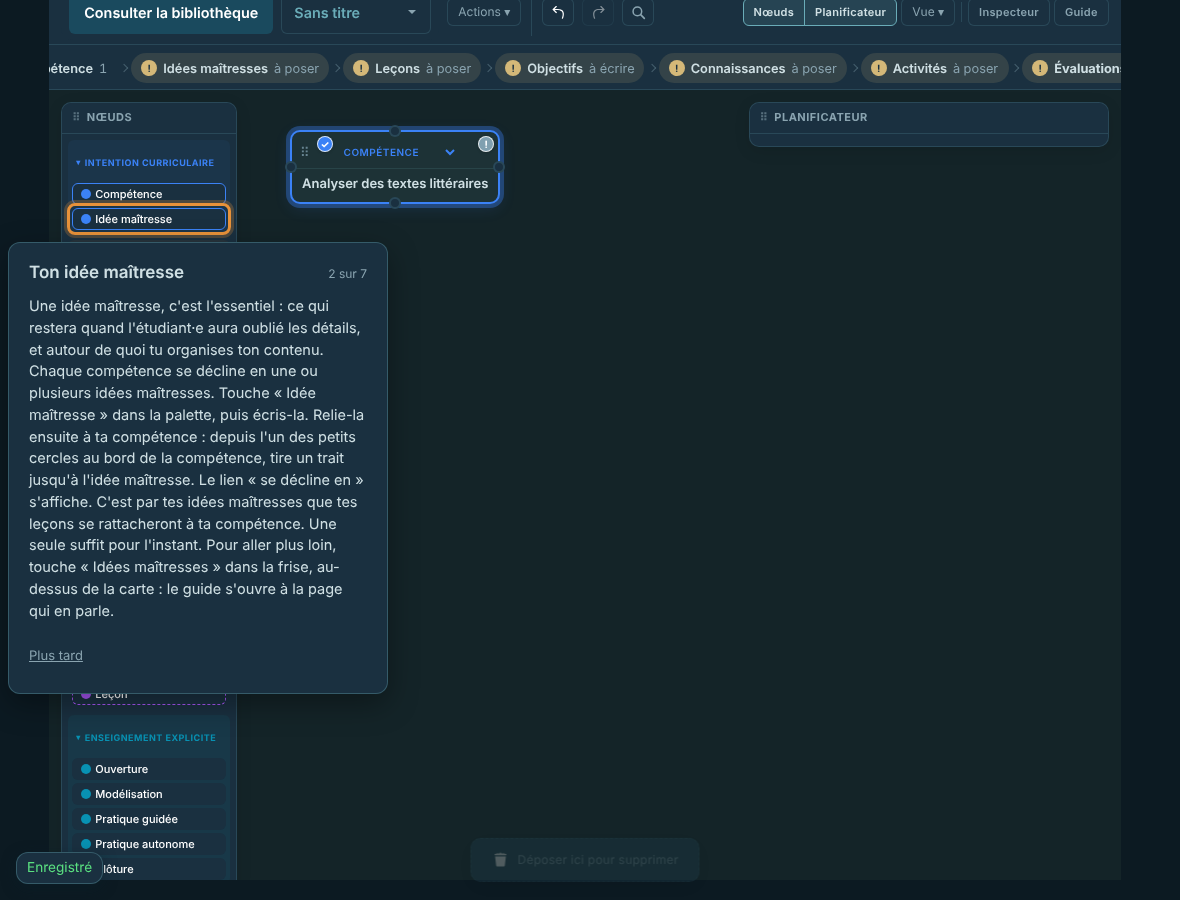
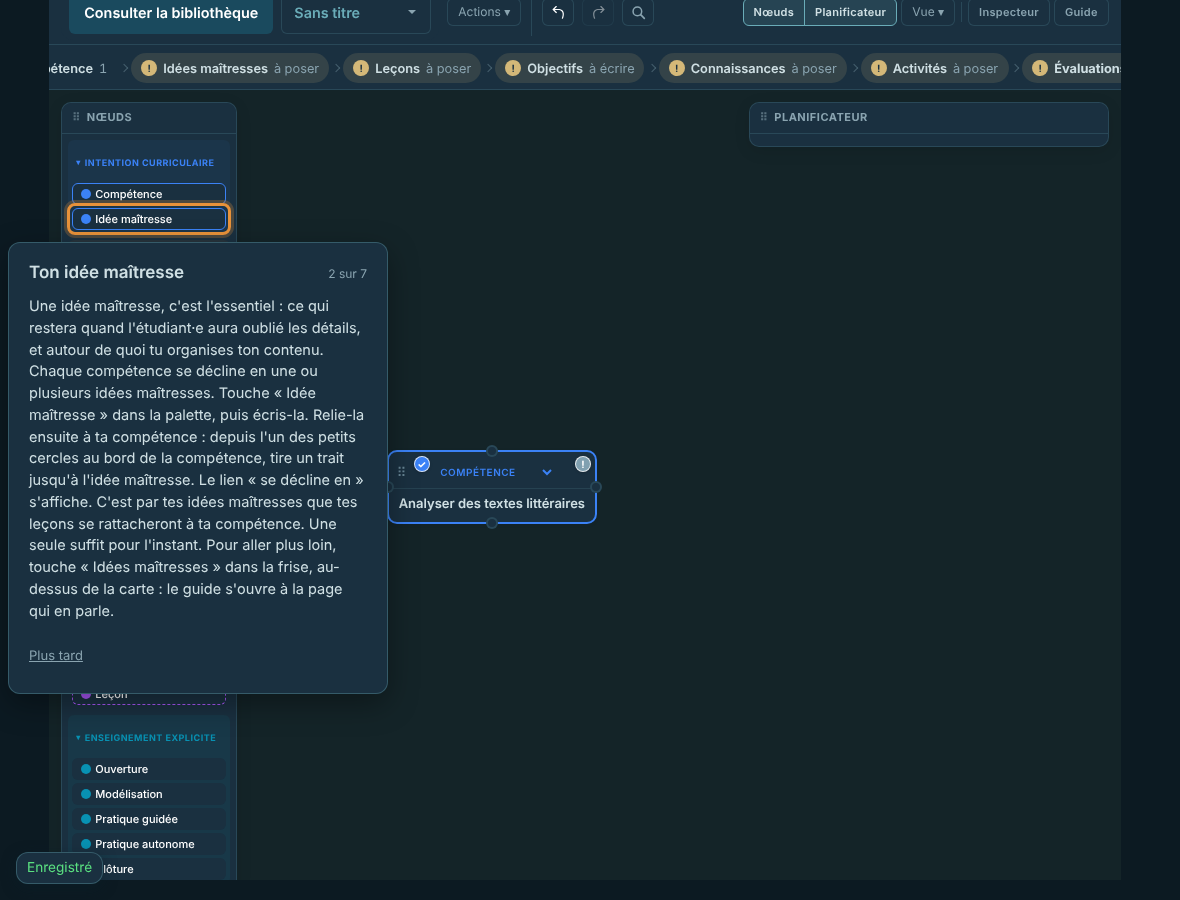
feat(parcours) : cinquième parcours, décisions du 9 nov. (16 h 03) — un bloc neuf de la palette se pose à côté du dernier posé, sans recouvrement, dans la partie visible du canevas (corrigé à la source) ; « Commencer » et « Refaire » ne comptent que les blocs créés ensuite ; essais, captures, rappor
Claude-Session: https://claude.ai/code/session_01ByBG6Ld1FqQz68ho7CDESp

Changed region(s): [[0.2441, 0.1244, 0.4271, 0.2489], [0.3356, 0.4978, 0.5186, 0.5911], [0.3966, 0.9333, 0.4271, 0.9644]]

diff --git a/index.html b/index.html
@@ -11500,7 +11500,7 @@
     <script src="js/securite-echappement.js?v=20260821a"></script> <!-- CT-29 : echapperAttribut — echapperHtml n'encode pas les guillemets, insuffisant en contexte d'attribut -->
     <script src="js/identite-naturelle.js?v=20260824a"></script> <!-- CT-15 : source unique de l'identite NATURELLE d'une entite du cadre (code de cours #455, courriel, triplet du groupe-cours) -->
     <script src="js/navigation.js?v=20261029b"></script> <!-- #1152, lot 5 (29 oct.) : les bulles d’Exploration des pratiques et du Suivi longitudinal (autorisation de Grégoire) · « Apporter mon matériel » lot 1 (16 oct.) : info-bulle du sous-onglet (autorisation de Grégoire) · #345 (22 juin) : filtre comparateur sous-nav Labo ; Refonte nav SP5 : tables migrées calendrier-* + nav-calendrier-* -->
-    <script src="js/preferences.js?v=20261109u"></script> <!-- Parcours 5 (9 nov.) : parcoursMonter · Parcours 4 (9 nov.) : fichierId dans parcoursRecevoir · #1229 (4 nov.) : axeCopieReference, l’axe de la copie de référence · Les palettes, une même famille (2 nov.) : la version de chaque palette, défaut l’étendue · La palette Évaluation compacte (1er nov.) · La palette Codes compacte, partie B (1er nov.) · #1149 (24 oct.) : défaut afficherChainesEtapes · Lot 2 de la carte (8 oct.) : défaut planifReserveDisposition retiré · API centralisée préférences + migration V3 (doit précéder modes.js) ; #485 : défaut rapportPresencesOptions -->
+    <script src="js/preferences.js?v=20261109v"></script> <!-- Parcours 5 (16 h 03) : noeudsAvant · Parcours 5 (9 nov.) : parcoursMonter · Parcours 4 (9 nov.) : fichierId dans parcoursRecevoir · #1229 (4 nov.) : axeCopieReference, l’axe de la copie de référence · Les palettes, une même famille (2 nov.) : la version de chaque palette, défaut l’étendue · La palette Évaluation compacte (1er nov.) · La palette Codes compacte, partie B (1er nov.) · #1149 (24 oct.) : défaut afficherChainesEtapes · Lot 2 de la carte (8 oct.) : défaut planifReserveDisposition retiré · API centralisée préférences + migration V3 (doit précéder modes.js) ; #485 : défaut rapportPresencesOptions -->
 
     <script src="js/modes.js?v=20261108b"></script> <!-- Retouche E4 (28 oct.) : jetonCacheLecture, l’index des évaluations vit le temps d’un lot · #1038 (26 oct.) : productionsRangeesAilleurs, la condition de la ligne sous « Production » · #1075, point 2 (22 oct.) : un trimestre clos ne s’écrit pas · Lot E1 de l'enregistrement : modifierEtAnnoncer, le témoin pour les écritures par db.modifier · Refonte nav SP5 : commentaire et clé calendrier-trimestre ; #851 vue « tous groupes » -->
     <script src="js/utils-notifications.js?v=20261104b"></script> <!-- Cat-B Track 4 chantier E (21 mai 2026) : source unique notifications toast — window.notifications.{succes,erreur,info} -->
@@ -11672,7 +11672,7 @@
     <script src="js/planification-donnees.js?v=20261006a"></script> <!-- #425 préalable : vivacité de productionId à la reprise (8 août) -->
 
     <script src="js/planification-bibliotheque.js?v=20261025b"></script> <!-- #1157, retouche (25 oct.) : « de ce trimestre » dans la question et la notification · #1157 (25 oct.) : la bibliothèque des cartes d’alignement en deux colonnes · Beta 99.40 b0510-1500 : Phase C #267 migration boutonPrincipal/actionsMenu -->
-    <script src="js/planification-carte.js?v=20261109a"></script> <!-- Parcours 5 (9 nov.) : la pastille « ! » paraît en quittant le premier objectif (Q13), deux phrases du guide · #1172 (26 oct.) : la chaîne d'étapes de la carte, le guide ouvert à une page · Lot 4 (9 oct.) : export, échelle de la production (#969) ; index par passe (#971), role="img" (#972), champ Semaine des leçons à objectifs · Commentaire sur le guide (8 oct.) · 1.192.1 (8 oct.) : palette des raccourcis revenue, ouverte par le menu « Vue » · Mots validés (8 oct., 19 h 05) et lien de l'invitation qui quitte le plein écran · Lot 2 de la carte (8 oct.) : planificateur vertical seul, dates du trimestre · Lot 1 de la carte (8 oct.) : menu « Vue », R remplace ⌘1 · Décloner (3 sept.) : bouton dans l'Inspecteur, message d'après-geste unique (annoncerDeclonage) · Portage #424 : générateur unique, rétroaction formative, panneau Exporter le plan (8 août) -->
+    <script src="js/planification-carte.js?v=20261109e"></script> <!-- Parcours 5 (9 nov., 16 h 03) : un bloc neuf de la palette à côté du dernier posé · Parcours 5 (9 nov.) : la pastille « ! » paraît en quittant le premier objectif (Q13), deux phrases du guide · #1172 (26 oct.) : la chaîne d'étapes de la carte, le guide ouvert à une page · Lot 4 (9 oct.) : export, échelle de la production (#969) ; index par passe (#971), role="img" (#972), champ Semaine des leçons à objectifs · Commentaire sur le guide (8 oct.) · 1.192.1 (8 oct.) : palette des raccourcis revenue, ouverte par le menu « Vue » · Mots validés (8 oct., 19 h 05) et lien de l'invitation qui quitte le plein écran · Lot 2 de la carte (8 oct.) : planificateur vertical seul, dates du trimestre · Lot 1 de la carte (8 oct.) : menu « Vue », R remplace ⌘1 · Décloner (3 sept.) : bouton dans l'Inspecteur, message d'après-geste unique (annoncerDeclonage) · Portage #424 : générateur unique, rétroaction formative, panneau Exporter le plan (8 août) -->
     <script src="js/planification-export.js?v=20261022b"></script> <!-- Lot 4 (9 oct.) : « Aucun objectif de cette leçon » (#974) · LE générateur d'export : 3 niveaux × 3 formats (portage #424, 8 août) — #416 lot C : la date dérivée du groupe-cours choisi -->
     <script src="js/planification.js?v=20260808a"></script> <!-- Refonte nav SP4 : hooks nomSection 'conception' + idSousSection conception-* -->
 
@@ -11793,7 +11793,7 @@
     <script src="js/parcours-classe.js?v=20261109p"></script>
     <script src="js/parcours-evaluer.js?v=20261109e"></script> <!-- Parcours 3 (9 nov.) : « Évaluer une première production » ; la cartouche nommée par la production (15 h 55) ; la ligne du panneau, l’échelle à la fiche (13 h 37) -->
     <script src="js/parcours-recevoir.js?v=20261109e"></script> <!-- Parcours 4 (9 nov.) : « Recevoir les productions, rendre tes rétroactions » ; deux textes et la bulle sous les colonnes (15 h 55) ; la reprise des étapes 4 à 7, l’export téléchargé (relecture neuve) -->
-    <script src="js/parcours-cours.js?v=20261109c"></script> <!-- Parcours 5 (9 nov.) : « Monter ton cours » -->
+    <script src="js/parcours-cours.js?v=20261109d"></script> <!-- Parcours 5 (9 nov.) : « Monter ton cours » -->
     <script src="js/guides-pedagogiques.js?v=20261101a"></script> <!-- Consigne du 31 oct., partie F : même en-tête aux trois palettes, ↔ et ↕ en texte sur l’iPad · Lot 2 des seuils (30 oct.) : le niveau RàI · #1152, lot 5 (29 oct.) : le guide ACP cite « Suivi du groupe » ; « étudiant·e » · Le guide SOLO (27 oct.) : « PS ↔ Préstructurel », le non recevable sorti de la correspondance · Module unifié des guides pédagogiques : SOLO, ACP, RàI (plan du 23 mai, contenu validé 4 juin 2026) -->
     <script src="js/comparateur-pratiques.js?v=20261107b"></script> <!-- #1152, retouche du lot 5 (29 oct.) : « L’Exploration des pratiques » dans trois phrases · #1152, lot 5 (29 oct.) : le titre « Exploration des pratiques » · #1075, point 1 (22 oct.) : le DA affiché en anonymisation, libellé et CSV · Comparateur de pratiques (lot C1-a : squelette + garde démo, 6 juin 2026) -->
     <script src="js/export-resultats-finaux.js?v=20261029a"></script> <!-- #333 Lot 2 : export CSV des résultats finaux (module dédié, consomme simulerIndices) -->

diff --git a/js/planification-carte.js b/js/planification-carte.js
@@ -3121,6 +3121,7 @@ function pointClientDuGeste(e) {
 function creerNoeud(type, x, y) {
     enregistrerPourUndo();
     const id = 'planif-noeud_' + (++etat.compteur);
+    etat.dernierPose = id;   // le prochain bloc de la palette se pose à côté (`placePourBlocNeuf`)
     const config = TYPES[type];
 
     const donnees = {
@@ -3162,6 +3163,84 @@ function creerNoeud(type, x, y) {
 
     sauvegarder();
     return id;
+}
+
+// === UN BLOC NEUF, À CÔTÉ DU DERNIER POSÉ (9 nov. 2026) ===
+//
+// Au toucher d'un bouton de la palette, le bloc se posait au centre du canevas, à ±50 px près, au hasard : la
+// compétence, l'idée maîtresse et la leçon du cinquième parcours d'assistance se recouvraient, et il fallait les
+// écarter avant de tirer un trait (mesuré ; décision de Cowork, 9 nov., 16 h 03 : corriger la source). Il se pose
+// maintenant à côté du dernier bloc posé (à droite, sinon dessous, à gauche, au-dessus), sans recouvrir aucun bloc, dans
+// la partie visible du canevas (entre les palettes « Nœuds » et « Planificateur ») ; sinon, au plus près du centre de
+// cette partie. Le glisser depuis la palette, lui, pose le bloc où on le lâche : il n'est pas touché.
+var ECART_BLOC_NEUF = 40;
+
+/** La taille d'un bloc neuf, avant de le dessiner : un conteneur (leçon, séquence) est plus grand qu'une feuille. */
+function tailleBlocNeuf(type) {
+    return TYPES[type] && TYPES[type].conteneur ? { l: 300, h: 150 } : { l: 230, h: 90 };
+}
+
+/** Le rectangle d'un bloc posé, en coordonnées de la carte. */
+function rectDeBloc(n) {
+    var el = document.getElementById(n.id);
+    return { x: n.x, y: n.y, l: el ? el.offsetWidth : 200, h: el ? el.offsetHeight : 74 };
+}
+
+/** Deux rectangles plus proches que l'écart voulu. */
+function tropProches(a, b) {
+    var m = ECART_BLOC_NEUF / 2;
+    return a.x < b.x + b.l + m && b.x < a.x + a.l + m && a.y < b.y + b.h + m && b.y < a.y + a.h + m;
+}
+
+/** La partie du canevas qu'on voit et qu'on peut toucher, en coordonnées de la carte. */
+function partieVisibleDuCanevas() {
+    var r = zoneTravail.getBoundingClientRect();
+    var g = Math.max(r.left, 0), d = Math.min(r.right, window.innerWidth), h = Math.max(r.top, 0), b = Math.min(r.bottom, window.innerHeight);
+    ['planif-palette', 'planif-palette-nav'].forEach(function(id) {
+        var p = document.getElementById(id);
+        if (!p || !p.offsetParent) return;
+        var q = p.getBoundingClientRect();
+        if (q.right <= (g + d) / 2) g = Math.max(g, q.right);
+        else if (q.left >= (g + d) / 2) d = Math.min(d, q.left);
+    });
+    var a = clientVersData(g, h), z = clientVersData(d, b);
+    return { x: a.x, y: a.y, l: z.x - a.x, h: z.y - a.y };
+}
+
+/** Une place convient si le bloc tient dans la partie visible sans s'approcher d'aucun autre. */
+function placeConvient(c, t, vue, autres) {
+    var r = { x: c.x, y: c.y, l: t.l, h: t.h };
+    var dedans = r.x >= vue.x && r.y >= vue.y && r.x + r.l <= vue.x + vue.l && r.y + r.h <= vue.y + vue.h;
+    return dedans && !autres.some(function(o) { return tropProches(r, o); });
+}
+
+/** Les places à côté du dernier bloc posé, dans l'ordre : à droite, dessous, à gauche, au-dessus. */
+function placesAutourDe(d, t) {
+    var e = ECART_BLOC_NEUF;
+    return [{ x: d.x + d.l + e, y: d.y }, { x: d.x, y: d.y + d.h + e }, { x: d.x - e - t.l, y: d.y }, { x: d.x, y: d.y - e - t.h }];
+}
+
+/** Sinon, la place libre la plus proche du point visé, cherchée dans la partie visible, de 30 en 30 px. */
+function placeLaPlusProche(vise, t, vue, autres) {
+    var meilleure = null, distance = Infinity;
+    for (var y = vue.y; y + t.h <= vue.y + vue.h; y += 30) {
+        for (var x = vue.x; x + t.l <= vue.x + vue.l; x += 30) {
+            var dist = Math.abs(x - vise.x) + Math.abs(y - vise.y);
+            if (dist < distance && placeConvient({ x: x, y: y }, t, vue, autres)) { meilleure = { x: x, y: y }; distance = dist; }
+        }
+    }
+    return meilleure;
+}
+
+/** Où poser le bloc neuf d'un toucher sur la palette. */
+function placePourBlocNeuf(type) {
+    var t = tailleBlocNeuf(type), vue = partieVisibleDuCanevas();
+    var autres = Array.from(etat.noeuds.values()).map(rectDeBloc);
+    var dernier = etat.dernierPose && etat.noeuds.get(etat.dernierPose);
+    var d = dernier ? rectDeBloc(dernier) : null;
+    var proche = d ? placesAutourDe(d, t).find(function(c) { return placeConvient(c, t, vue, autres); }) : null;
+    var centre = { x: vue.x + (vue.l - t.l) / 2, y: vue.y + (vue.h - t.h) / 2 };
+    return proche || placeLaPlusProche(d || centre, t, vue, autres) || centre;
 }
 
 // === SÉLECTION ===
@@ -8916,11 +8995,8 @@ function initialiser() {
 
         btn.addEventListener('click', function(e) {
             if (e.detail === 1) {
-                var rect = zoneTravail.getBoundingClientRect();
-                var centre = clientVersData(rect.left + rect.width / 2, rect.top + rect.height / 2);
-                var x = centre.x - 70 + (Math.random() - 0.5) * 100;
-                var y = centre.y - 30 + (Math.random() - 0.5) * 100;
-                creerNoeud(btn.dataset.type, x, y);
+                var place = placePourBlocNeuf(btn.dataset.type);   // à côté du dernier bloc posé (9 nov. 2026)
+                creerNoeud(btn.dataset.type, place.x, place.y);
             }
         });
     });

diff --git a/tests/unit/sentinelle-parcours-cours-2026-11-09.test.js b/tests/unit/sentinelle-parcours-cours-2026-11-09.test.js
@@ -158,7 +158,7 @@ describe('Le guide de la carte, aligné sur les bulles (consigne, 10 h 29 et 10 
 // Break-tests (9 nov.) : `leconDatee` remplacé par `texte` dans `leconReliee` → ROUGE (3) ; `productionId` retiré
 // d'`evaluationAlignee` → ROUGE (6) ; la garde `enSaisie` retirée → ROUGE (saisie). Rétablis.
 describe('« Monter ton cours » : ce qui fait avancer chaque étape', () => {
-    function carte({ noeuds = [], liens = [], pastille = 'avant', saisie = false, prods = [{ id: 'PROD_un' }] } = {}) {
+    function carte({ noeuds = [], liens = [], pastille = 'avant', saisie = false, prods = [{ id: 'PROD_un' }], avant } = {}) {
         const N = new Map(noeuds.map((n) => [n.id, { enfants: [], metadata: {}, ...n }]));
         const L = new Map(liens.map((l, k) => [String(k), l]));
         const actif = saisie ? { isContentEditable: true, tagName: 'DIV', closest: (s) => (s === '#conception-carte' ? {} : null) } : null;
@@ -176,7 +176,8 @@ describe('« Monter ton cours » : ce qui fait avancer chaque étape', () => {
             }
         };
         const document = { getElementById: () => null, querySelector: () => null, querySelectorAll: () => [], body: { appendChild() {} }, activeElement: actif };
-        chargerScript('js/parcours-cours.js', { document, obtenirDonneesSelonMode: () => prods }, win);
+        const ctx = avant ? { noeudsAvant: avant } : {};
+        chargerScript('js/parcours-cours.js', { document, obtenirDonneesSelonMode: () => prods, obtenirPreference: () => ctx }, win);
         return win.ParcoursCours;
     }
     const COMP = { id: 'C', type: 'competence', titre: 'Analyser' };
@@ -212,6 +213,17 @@ describe('« Monter ton cours » : ce qui fait avancer chaque étape', () => {
         expect(atteint(carte({ noeuds: [COMP] }), 1)).toBe(true);
         expect(atteint(carte({ noeuds: [COMP], saisie: true }), 1)).toBe(false);
         expect(atteint(carte({ noeuds: [COMP, IDEE], liens: [DECLINE], saisie: true }), 2)).toBe(false);
+    });
+
+    it('seul ce qui est créé après « Commencer » ou « Refaire » fait avancer une étape (16 h 03)', () => {
+        // Une compétence et son idée déjà posées : ni l'étape 1 ni l'étape 2 n'avancent.
+        expect(atteint(carte({ noeuds: [COMP], avant: ['C'] }), 1)).toBe(false);
+        expect(atteint(carte({ noeuds: [COMP, IDEE], liens: [DECLINE], avant: ['C', 'I'] }), 2)).toBe(false);
+        // Une compétence neuve, à côté de l'ancienne : l'étape 1 avance.
+        expect(atteint(carte({ noeuds: [COMP, { ...COMP, id: 'C2' }], avant: ['C'] }), 1)).toBe(true);
+        // Une évaluation déjà posée, alignée : l'étape 6 n'avance pas.
+        const ev = { id: 'E', type: 'evaluation', titre: 'Journal', parent: 'L', metadata: { productionId: 'PROD_un' } };
+        expect(atteint(carte({ noeuds: [LECON({ semaine: 2, rangSeance: 1 }), ev], avant: ['E'] }), 6)).toBe(false);
     });
 
     it('la condition : une production retirée de la bibliothèque ne compte pas (le menu de l’Inspecteur ne l’offre pas)', () => {

diff --git a/js/parcours-cours.js b/js/parcours-cours.js
@@ -90,7 +90,25 @@
 
     function texte(n) { return String((n && n.titre) || '').trim(); }
 
-    function duType(type) { return noeuds().filter(function (n) { return n && n.type === type; }); }
+    /**
+     * Seul ce qui est créé après « Commencer » (ou « Refaire ») fait avancer une étape, comme au troisième parcours
+     * (décision de Cowork, 9 nov., 16 h 03 ; mesuré par la relecture neuve : sur une carte remplie, « Refaire » faisait
+     * défiler les six étapes en moins d'une seconde). Les blocs déjà posés sont retenus par leur identifiant.
+     */
+    function neuf(n) {
+        var avant = lireCtx().noeudsAvant;
+        return !Array.isArray(avant) || avant.indexOf(n.id) === -1;
+    }
+
+    function duType(type) { return noeuds().filter(function (n) { return n && n.type === type && neuf(n); }); }
+
+    /** Les blocs de la carte active, lus dans le stockage : la carte n'a pas à être ouverte au lancement. */
+    function idsDeLaCarteActive() {
+        var D = window.planificationDonnees;
+        var index = D && typeof D.getIndex === 'function' ? D.getIndex() : null;
+        var carte = index && index.active ? D.chargerCarte(index.active) : null;
+        return carte && Array.isArray(carte.noeuds) ? carte.noeuds.map(function (n) { return n && n.id; }).filter(Boolean) : [];
+    }
 
     function relie(sourceId, cibleId, type) {
         return liens().some(function (l) { return l && l.type === type && l.source === sourceId && l.cible === cibleId; });
@@ -124,7 +142,8 @@
     function laLecon() {
         var c = C();
         var id = lireCtx().leconId;
-        return (id && c && c.etat.noeuds.get(id)) || duType('lecon')[0] || null;
+        var l = id && c ? c.etat.noeuds.get(id) : null;
+        return (l && neuf(l) ? l : null) || duType('lecon')[0] || null;
     }
 
     function objectifs(lecon) {
@@ -133,7 +152,7 @@
 
     function enfantsDe(lecon) {
         var c = C();
-        return lecon ? (lecon.enfants || []).map(function (id) { return c.etat.noeuds.get(id); }).filter(Boolean) : [];
+        return lecon ? (lecon.enfants || []).map(function (id) { return c.etat.noeuds.get(id); }).filter(function (n) { return n && neuf(n); }) : [];
     }
 
     function blocQuiSert() {
@@ -463,7 +482,7 @@
         }
         // « Reprendre » relit la leçon retenue ; « Commencer » et « Refaire » repartent de la première étape.
         var reprise = window.Assistance.etatDe(ID).etat === 'en-cours';
-        if (!reprise) { depuis = 0; majCtx({ leconId: null }); }
+        if (!reprise) { depuis = 0; majCtx({ leconId: null, noeudsAvant: idsDeLaCarteActive() }); }
         window.Assistance.definirEtat(ID, 'en-cours', depuis);
         var lance = M().lancer(DEF, {
             depuis: depuis,

diff --git a/js/preferences.js b/js/preferences.js
@@ -164,7 +164,8 @@
         parcoursRecevoir: {},
 
         // Le repère du cinquième parcours, « Monter ton cours » (js/parcours-cours.js, 9 nov. 2026) :
-        // { leconId } — la leçon que l'étape 3 a vue naître, pour « Reprendre ». Un identifiant, rien de la carte.
+        // { leconId, noeudsAvant } — la leçon que l'étape 3 a vue naître, pour « Reprendre », et les blocs déjà posés à
+        // « Commencer » ou « Refaire », qui ne font pas avancer les étapes. Des identifiants, rien de la carte.
         parcoursMonter: {},
 
         // Export du plan — niveau « Personnalisé » (#431, 8 août 2026).

diff --git a/plans de travail/RAPPORT-2026-11-09-parcours-5-monter-ton-cours.md b/plans de travail/RAPPORT-2026-11-09-parcours-5-monter-ton-cours.md
@@ -4,7 +4,8 @@ Consigne : `plans de travail/CONSIGNE-LOT-2026-11-08-parcours-5-monter-ton-cours
 de Grégoire du 9 nov., 10 h 01 à 10 h 04, en Cowork (corrections des étapes 2, 3, 5 et 6 ; questions 10, 13 et 16),
 relayées à une session dans le nuage : ni WebKit ni tes données ici. Branche `lot/parcours-5-monter-ton-cours`, partie
 de `lot/parcours-4-recevoir-et-rendre` (qui porte les parcours 1 à 4) ; les retouches du troisième parcours décidées à
-13 h 37 y sont fusionnées. Non fusionnée, non publiée, rien au changelog.
+13 h 37 et 15 h 55 y sont fusionnées. Décisions du 9 nov., 16 h 03, en Cowork, sur les cinq questions de ce rapport
+(captures approuvées par Grégoire) : section « Ce qui attend Grégoire ». Non fusionnée, non publiée, rien au changelog.
 
 ## En tête
 
@@ -41,28 +42,46 @@ de `lot/parcours-4-recevoir-et-rendre` (qui porte les parcours 1 à 4) ; les ret
 
 ### Ce qui attend Grégoire (une question par ligne, avec ma recommandation)
 
+**Les cinq sont tranchées** (9 nov., 16 h 03, en Cowork) ; chaque question garde son texte, suivi de la décision et de ce
+qui en est fait.
+
 1. **Les blocs neufs naissent l'un sur l'autre.** Un toucher sur la palette pose le bloc au centre du canevas, à ±50 px
    près, au hasard (`planification-carte.js:8917-8921`). La compétence, l'idée maîtresse et la leçon se recouvrent
    donc ; pour tirer un trait de l'une à l'autre, il faut d'abord les écarter, et aucune bulle ne le dit (le banc les
    écarte par leur poignée). *Recommandation :* que la carte pose un bloc neuf à côté du dernier, plutôt que sur lui (un
    lot de la carte, pas du parcours). *À défaut,* une phrase à l'étape 2, après « puis écris-la. » : « Écarte-la de ta
-   compétence en la glissant par sa poignée ⠿. »
+   compétence en la glissant par sa poignée ⠿. » → **Corrigé à la source** (décidé par Cowork : cela cassait le
+   parcours livré ; aucune phrase ajoutée). Un bloc neuf posé d'un toucher sur la palette se place à côté du dernier
+   bloc posé (à droite, sinon dessous, à gauche, au-dessus), sans recouvrir aucun bloc, dans la partie visible du
+   canevas (entre les palettes « Nœuds » et « Planificateur ») ; sans place à côté, au plus près ; sans dernier bloc,
+   au centre de cette partie (`placePourBlocNeuf`, `js/planification-carte.js`). Le glisser depuis la palette pose
+   toujours le bloc où on le lâche. Essai : la compétence, l'idée maîtresse et la leçon posées à la suite ne se
+   recouvrent pas, tiennent dans la partie visible, et les deux traits se tirent sans rien déplacer. Break-test : le
+   placement d'avant remis → rouge. *À savoir :* à l'étape 3, tant que la leçon n'est pas datée, la bulle couvre la
+   compétence et l'idée maîtresse posées au-dessus (capture `p5-3-entete`) ; datée, elle laisse libre le cercle de
+   l'idée maîtresse pour le trait (essayé).
 2. **Sans voile.** La consigne dit « la palette « Nœuds » éclairée » aux étapes 1 et 2. Le moteur se sert des mêmes
    zones pour percer le voile et pour placer la bulle : un voile percé sur la seule palette rendrait intouchable le
    canevas, là où le bloc naît et où l'on écrit. Toutes les étapes sont donc sans voile ; la palette est désignée par
-   son contour. *Recommandation :* garder ainsi.
+   son contour. *Recommandation :* garder ainsi. → **Gardé.**
 3. **L'Inspecteur sous le « Planificateur », hors du parcours.** Corrigé pour le parcours seulement (section 4) ;
    ailleurs, à 1180 px, la palette « Planificateur », ouverte par défaut, couvre toujours les cases de l'Inspecteur.
-   *Recommandation :* inscrire (l'Inspecteur devant les palettes, toujours), constat de la session H.
+   *Recommandation :* inscrire (l'Inspecteur devant les palettes, toujours), constat de la session H. → **Dit ici,
+   sans entrée au BACKLOG** (décision de 16 h 03).
 4. **Les zones de 44 px suivent le zoom de la carte**, comme le dessin des cercles : à 50 %, la portée vers l'extérieur
    tombe de 39 à 19 px (mesuré par la relecture neuve). *Recommandation :* garder ainsi pour la cohorte (la carte
    s'ouvre à 100 %) ; une zone qui ne suivrait pas le zoom demande une variable de zoom que la carte n'expose pas (un
-   lot de la carte).
+   lot de la carte). → **Gardé.**
 5. **« Refaire » sur une carte déjà remplie** : les étapes 1 à 6, déjà atteintes, passent d'elles-mêmes en moins d'une
    seconde, jusqu'à la 7 (mesuré). C'est le principe (« l'étape avance quand l'état est atteint »), mais on ne peut pas
    rejouer le parcours sur la même carte. *Recommandation :* garder ainsi (le parcours montre ce qui manque à ta carte ;
    pour le rejouer, une carte neuve) ; *à défaut,* ne compter que ce qui naît après « Refaire », comme le troisième
-   parcours.
+   parcours. → **Tranché : comme le troisième parcours.** À « Commencer » et à « Refaire », le parcours retient les
+   blocs déjà posés sur la carte active (lus dans le stockage : la carte n'a pas à être ouverte) ; seuls les blocs créés
+   ensuite font avancer une étape (`neuf`, `js/parcours-cours.js` ; le repère `noeudsAvant`, préférence
+   `parcoursMonter`). « Reprendre » garde le repère. Essais : en Vitest, une compétence, une idée maîtresse ou une
+   évaluation déjà posées n'avancent pas leur étape, une neuve si ; dans le banc, « Refaire » sur la carte remplie
+   reste à l'étape 1. Break-test : le filtre retiré → rouge (les deux).
 
 ### Ce que je n'ai pas pu vérifier
 
@@ -170,9 +189,9 @@ par le banc :
 
 ## 5. Les essais
 
-- **Vitest** : `tests/unit/sentinelle-parcours-cours-2026-11-09.test.js`, 21 essais (16, puis 5 après la relecture :
+- **Vitest** : `tests/unit/sentinelle-parcours-cours-2026-11-09.test.js`, 22 essais (16, puis 5 après la relecture :
   ce qui fait avancer les étapes 2, 3 et 6 sur une carte simulée, la saisie qui retient toute étape, la production
-  retirée de la bibliothèque) : chaque bulle lue à l'exécution
+  retirée de la bibliothèque ; puis 1 après 16 h 03 : seuls les blocs neufs comptent) : chaque bulle lue à l'exécution
   et comparée à la consigne avec tes corrections ; chaque correction trouve sa phrase dans la consigne ; la variante ⚠ ;
   « Plus tard », « Terminer », la bulle au centre ; le titre, la ligne, la phrase du refus, et une production qui la
   lève ; les deux phrases du guide, la nouvelle présente, l'ancienne absente, et les bulles 2 et 4 qui les reprennent.
@@ -194,18 +213,23 @@ par le banc :
     réels de la sonde (une marque sur le voile que chaque passage remplace), pas après un délai.
   - Sans production : le refus ; les deux pages du guide ouvertes par la frise ; le panneau à 390 px.
   - Au doigt : la zone de 44 px des quatre cercles, et le gain de la poignée vers l'extérieur (question 10).
-  - **3 sur 3 verts**, et l'essai des sept étapes **5 fois de suite** sans raté (les blocs neufs naissent au hasard),
-    puis **3 fois de suite** après les correctifs de la relecture.
+  - **3 sur 3 verts**, et l'essai des sept étapes **5 fois de suite** sans raté (les blocs neufs naissaient au hasard),
+    puis **3 fois de suite** après les correctifs de la relecture, et **3 fois de suite** après ceux de 16 h 03 (les
+    blocs à côté du dernier, sans rien déplacer ; « Refaire » qui reste à l'étape 1).
   - Break-tests, chacun **rouge** puis rétabli : la question 13 (la reconstruction au départ du champ retirée) ; la
     variante (son passage retiré) ; le cadrage à la reprise ; l'Inspecteur devant ; la bulle sur la leçon entière ; la
     règle des 44 px ; après la relecture, la garde de saisie, la veille de la classe et le gain de la poignée.
-- **Vitest entier** (depuis `tests/`) : 900 fichiers, **11 010 essais verts** ; le hook pré-push l'a relancé à chaque
+- **Vitest entier** (depuis `tests/`) : 900 fichiers, **11 011 essais verts** ; le hook pré-push l'a relancé à chaque
   poussée. La sentinelle `phase-ee-et-prise` lit la première règle `.planif-noeud-prise::after` du fichier : la règle
   du doigt est posée après celle de base, pour ne pas la masquer.
 - Les bancs voisins, rejoués sur cette branche après la fusion des retouches du troisième (`parcours-3-evaluer`,
   `parcours-4-recevoir-et-rendre`, `parcours-1-et-2`, `parcours-2-ma-classe`) : **13 sur 14**. Le rouge (« panneau :
   titre, phrase… », largeur 429,99994 px au lieu de 430) l'est aussi sans ces lots : l'arrondi de Chromium déjà dit au
   rapport du troisième parcours.
+- **Les bancs de la carte** (`planif-*`, `chaine-carte-1172`, `bibliotheque-deux-colonnes-1157`), Chromium, après le
+  correctif du placement : **93 sur 96**. Les trois rouges le sont aussi **sans** ce correctif (mesuré en le retirant) :
+  deux attendent « ⌘ » comme sur un Mac (`planif-menu-vue`, « ⌘A », « Annuler (⌘Z) » ; ici « Ctrl ») et un, la
+  corbeille qui rougit sous le bloc glissé (`planif-corbeille-fixe-1070`). Sans rapport avec ce lot ; à juger au Mac.
 
 ## 6. Hypothèses que j'ai prises seul (à corriger en dix secondes si elles sont fausses)
 
@@ -240,8 +264,6 @@ Les deux que la consigne demande d'inscrire, sans les faire :
   compétences », alors qu'un cours en vise en général une seule. Texte à soumettre à Grégoire.
 
 Vus en chemin (issue proposée : inscrire et continuer ; aucun n'a de symptôme que tu as vécu, à toi de juger) :
-- Les blocs neufs naissent l'un sur l'autre (question 1).
-- La palette « Planificateur » couvre l'Inspecteur à 1180 px, hors du parcours (question 3 ; session H).
 - La frise rogne son début : « Compétence » n'est pas entier à 1180 px (session H ; visible sur chaque capture).
 - La garde du double toucher vise `.planif-port` et `.planif-poignee`, des classes qui n'existent pas (session H).
 - La pastille « ! » ne paraît au départ du champ que pour le premier objectif d'une leçon (question 13, décision
